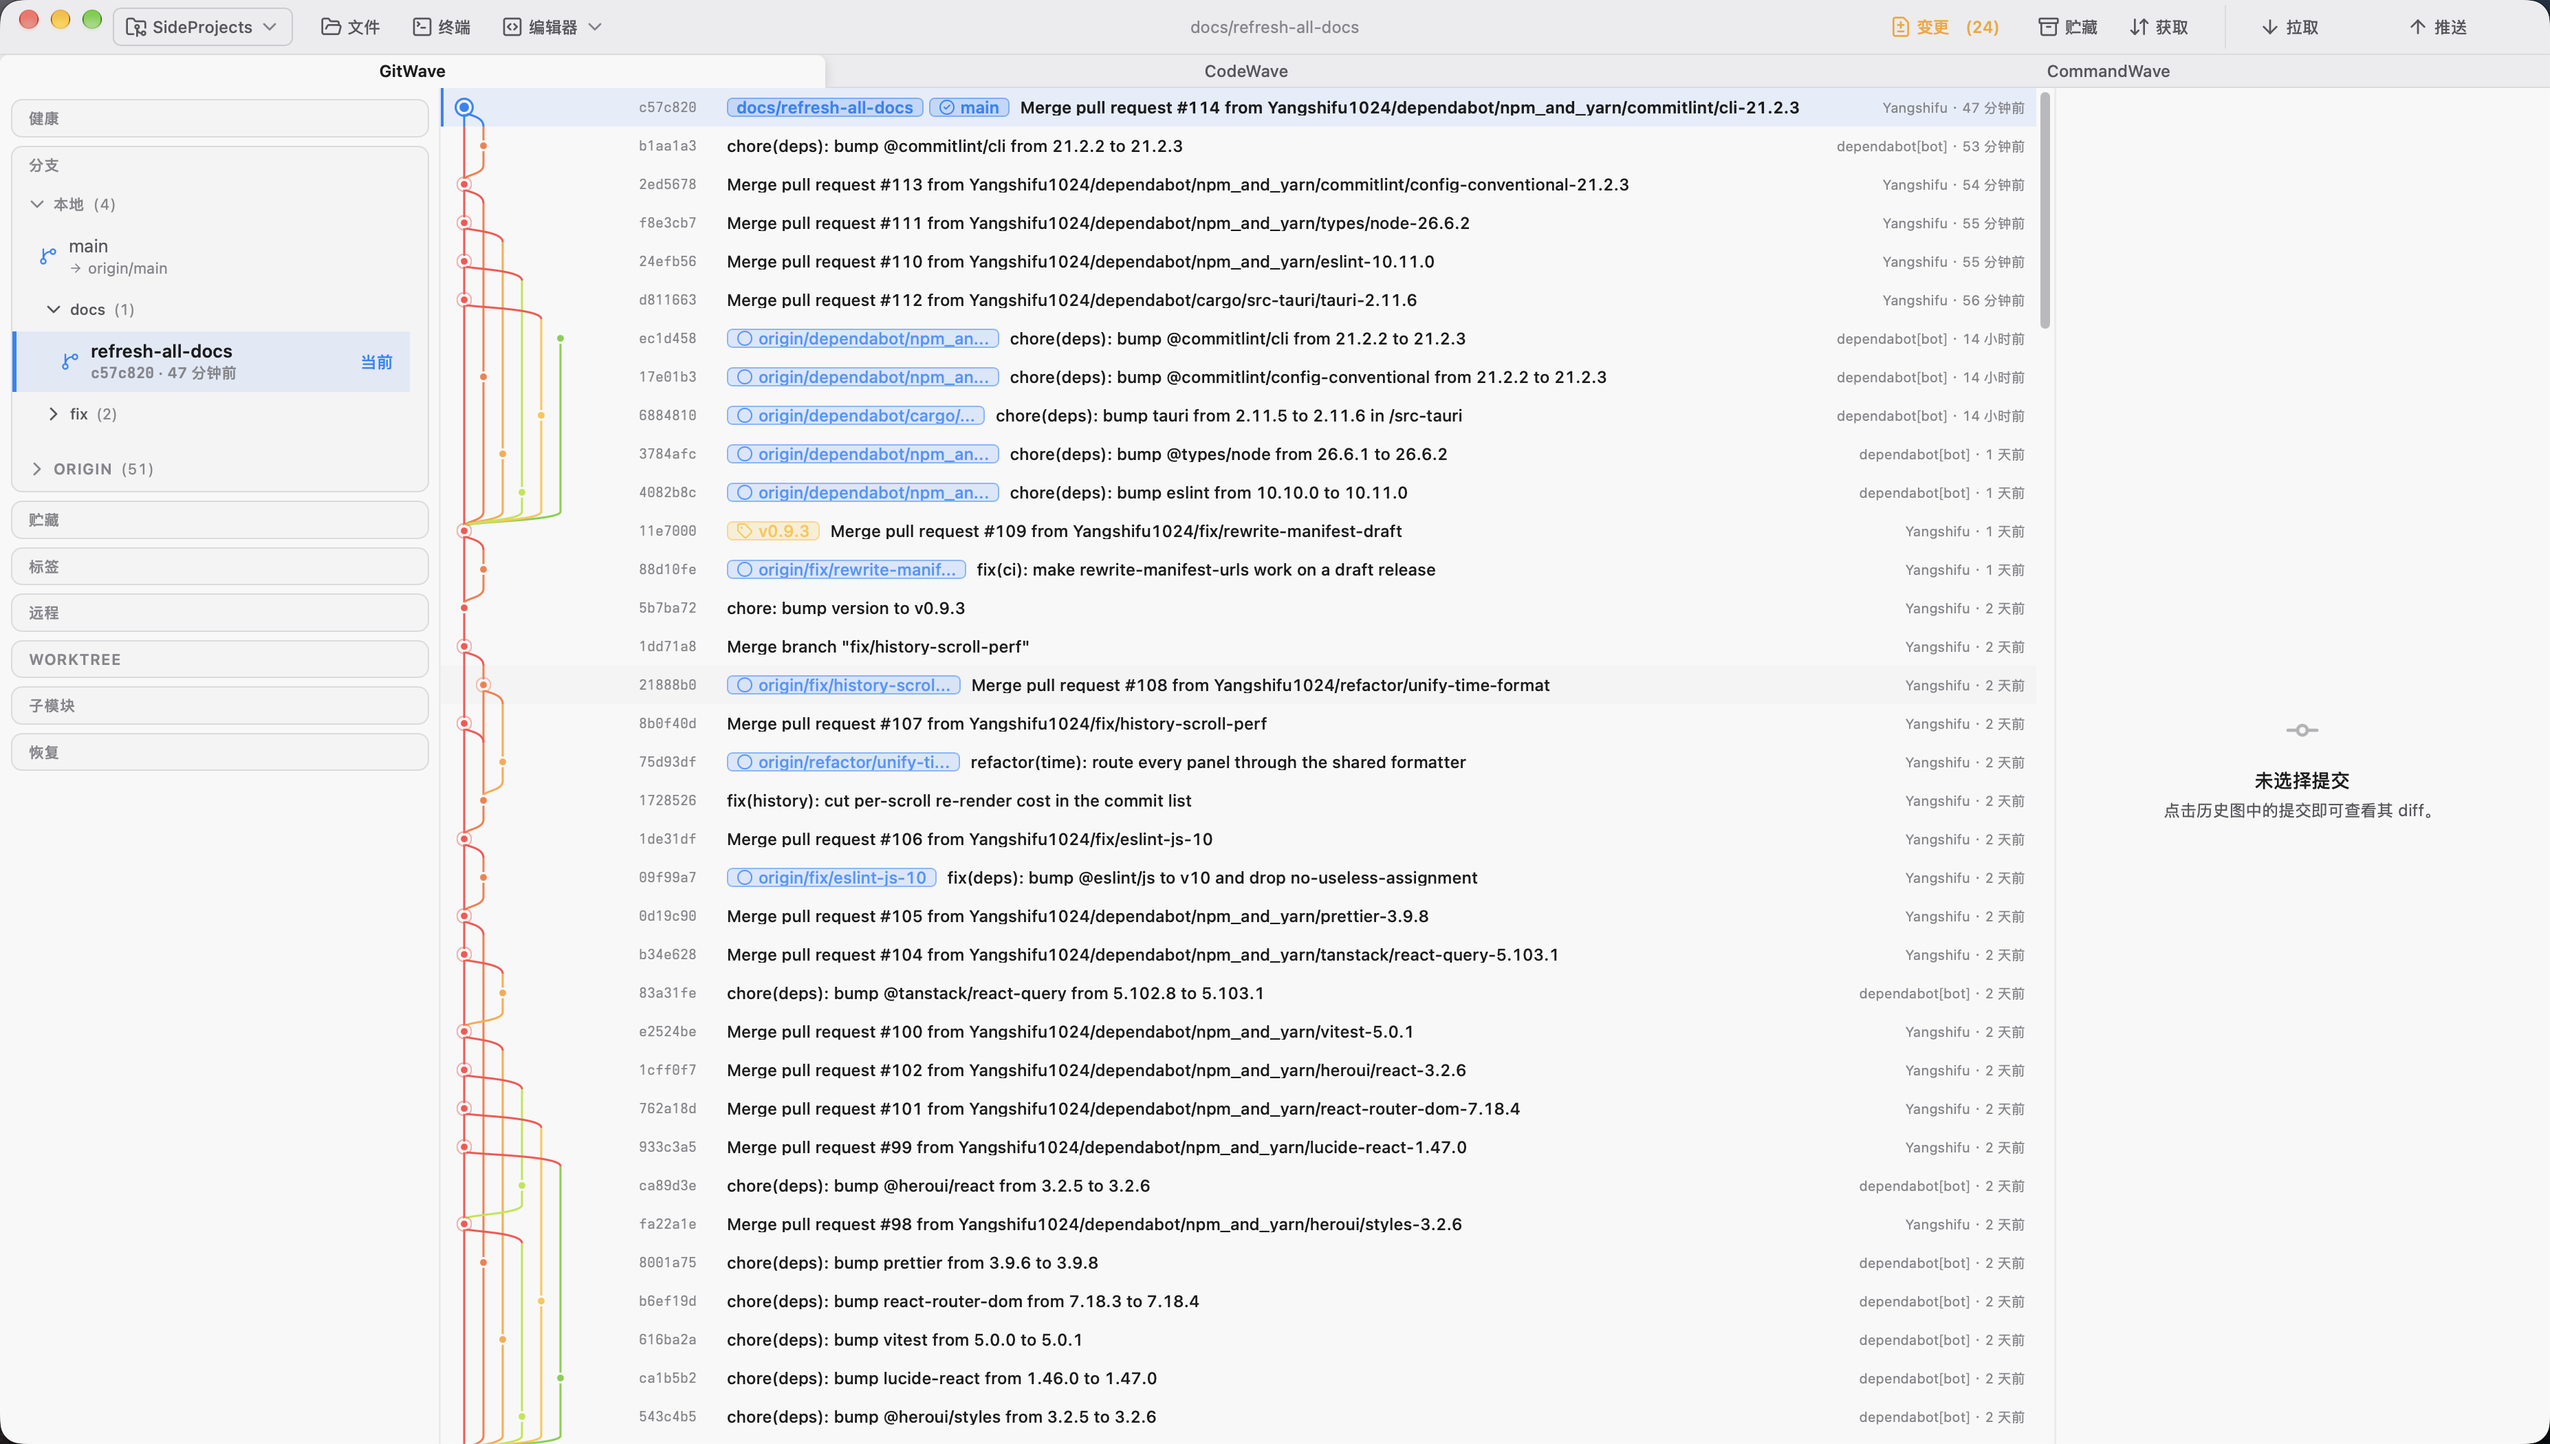
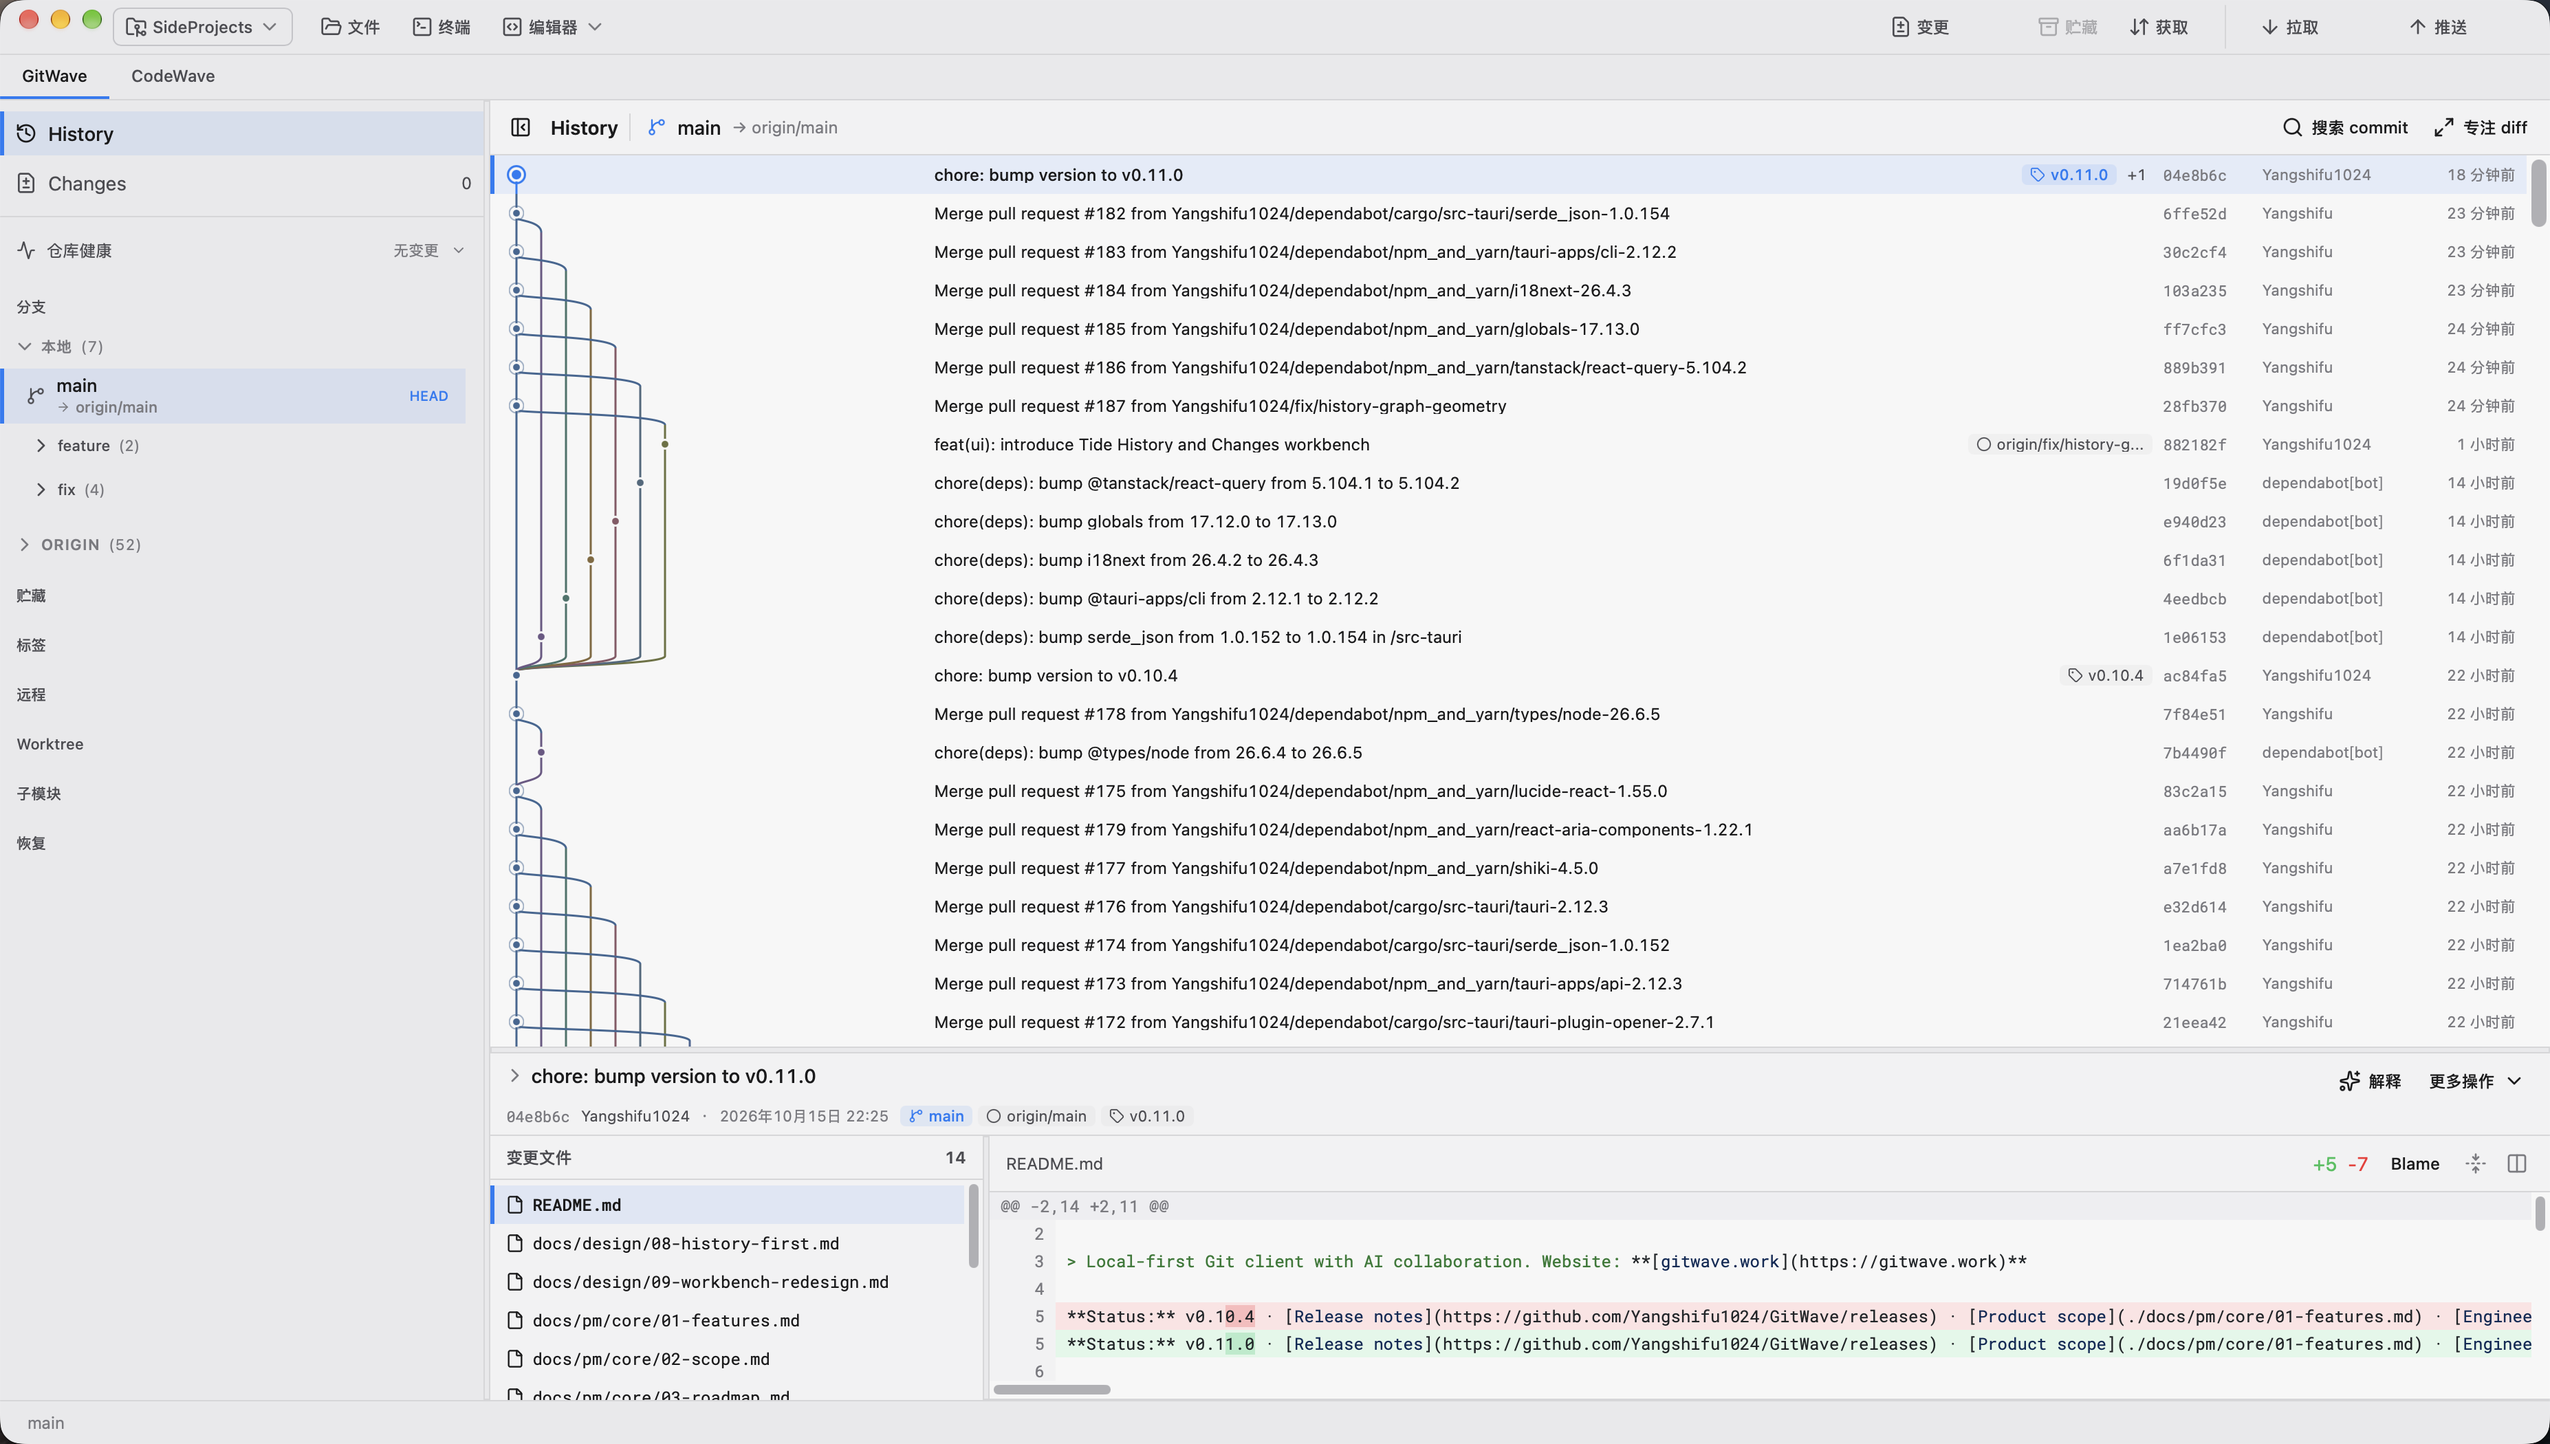
docs(readme): replace screenshot with the v0.11.0 workbench

diff --git a/README.md b/README.md
@@ -17,9 +17,9 @@
 
 Older releases are in the [release notes](https://github.com/Yangshifu1024/GitWave/releases).
 
-![Earlier-release GitWave window: a self-drawn title bar carrying the app menu, workspace selector and sync actions, a commit graph with ref badges in the centre, the selected commit's details in the right pane, and a working copy bar along the bottom.](./assets/gitwave-screenshot.png)
+![GitWave v0.11.0 window: the History workspace shows a full branch graph with ref badges, aligned SHA / author / time columns and commit search on the left, the selected commit's details and changed files on the right, and its diff below. A sidebar switches between History and Changes, lists branches, tags, stashes, worktrees, submodules and remotes, while the self-drawn title bar carries the app menu, workspace selector and sync actions.](./assets/gitwave-screenshot.png)
 
-The screenshot shows an earlier release. The history-first layout is documented in the [v0.10.3 specification](./docs/design/08-history-first.md); the Tide Workbench is documented in [Tide Workbench](./docs/design/09-workbench-redesign.md).
+The screenshot shows v0.11.0 with the Tide Workbench. Its design is documented in [Tide Workbench](./docs/design/09-workbench-redesign.md); the earlier history-first layout it replaces is documented in the [v0.10.3 specification](./docs/design/08-history-first.md).
 
 ## Download
 
